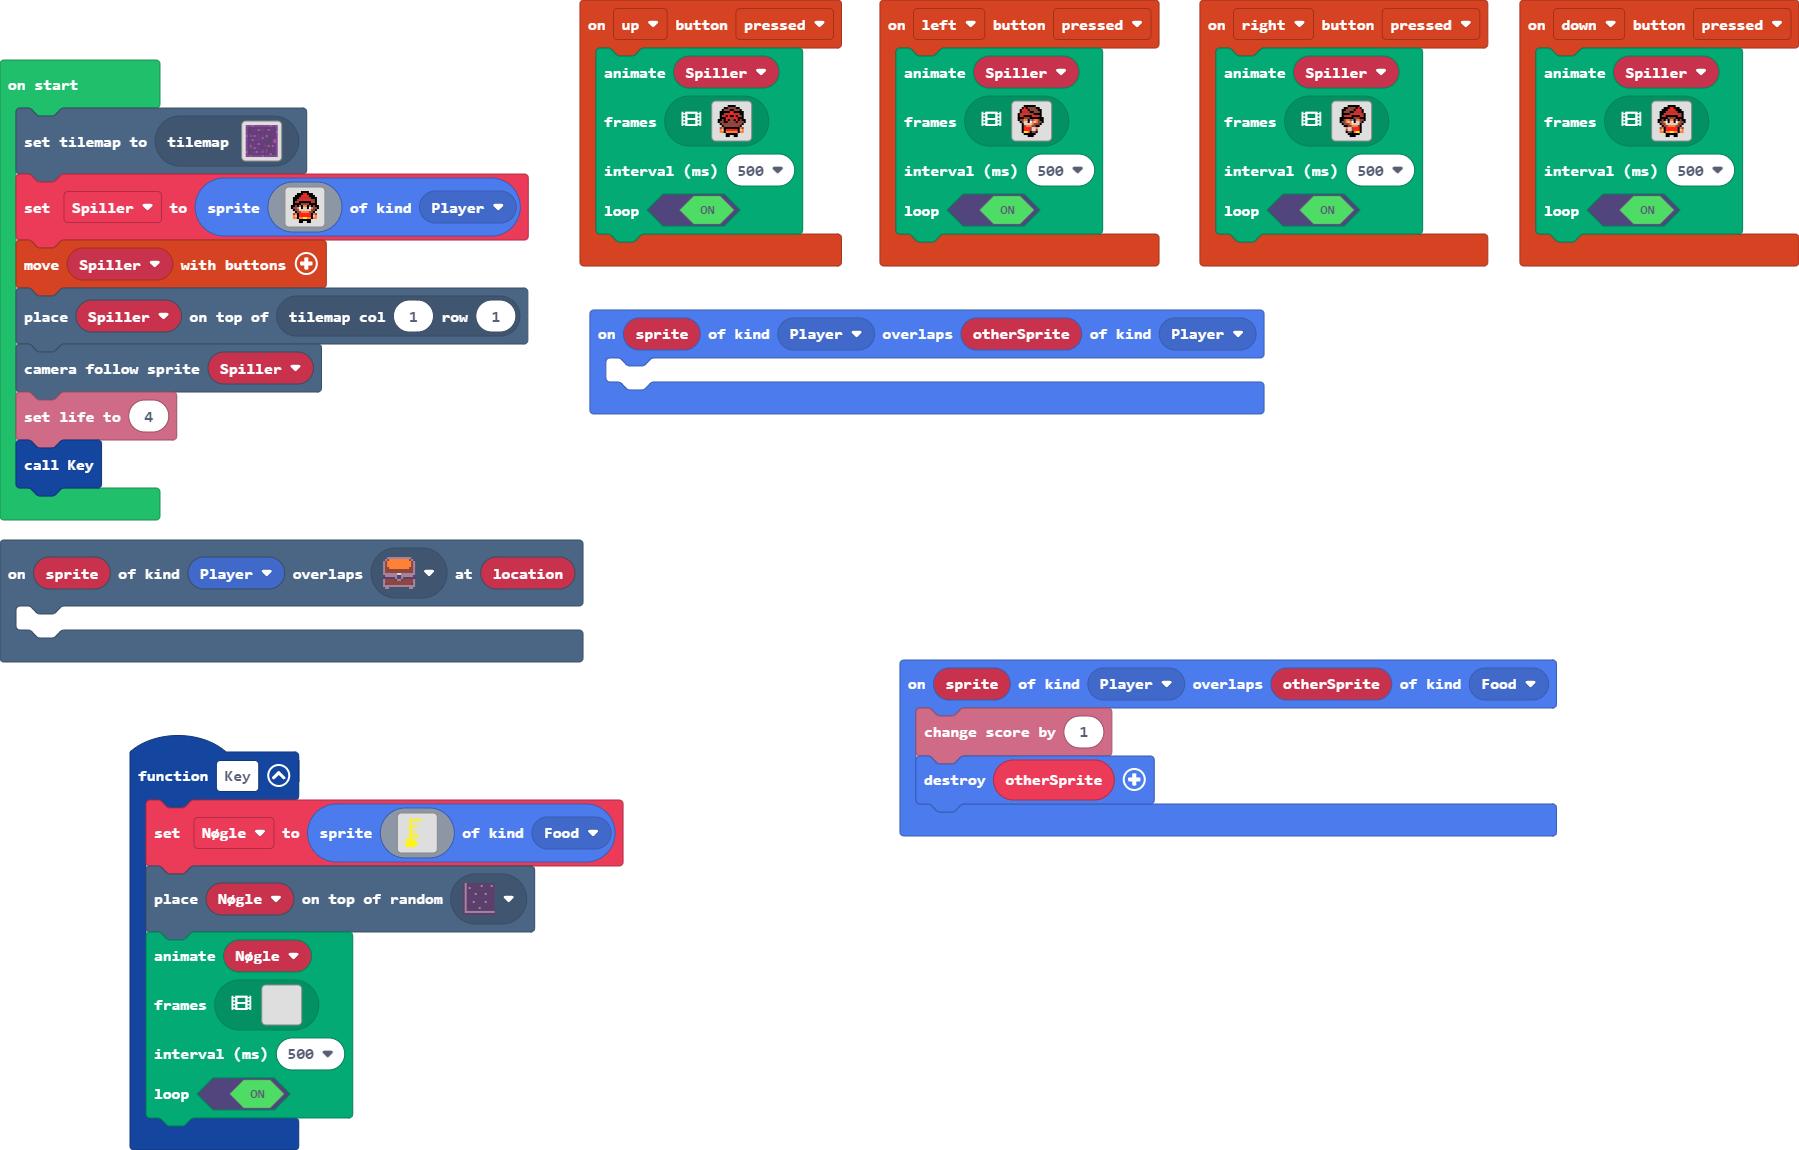
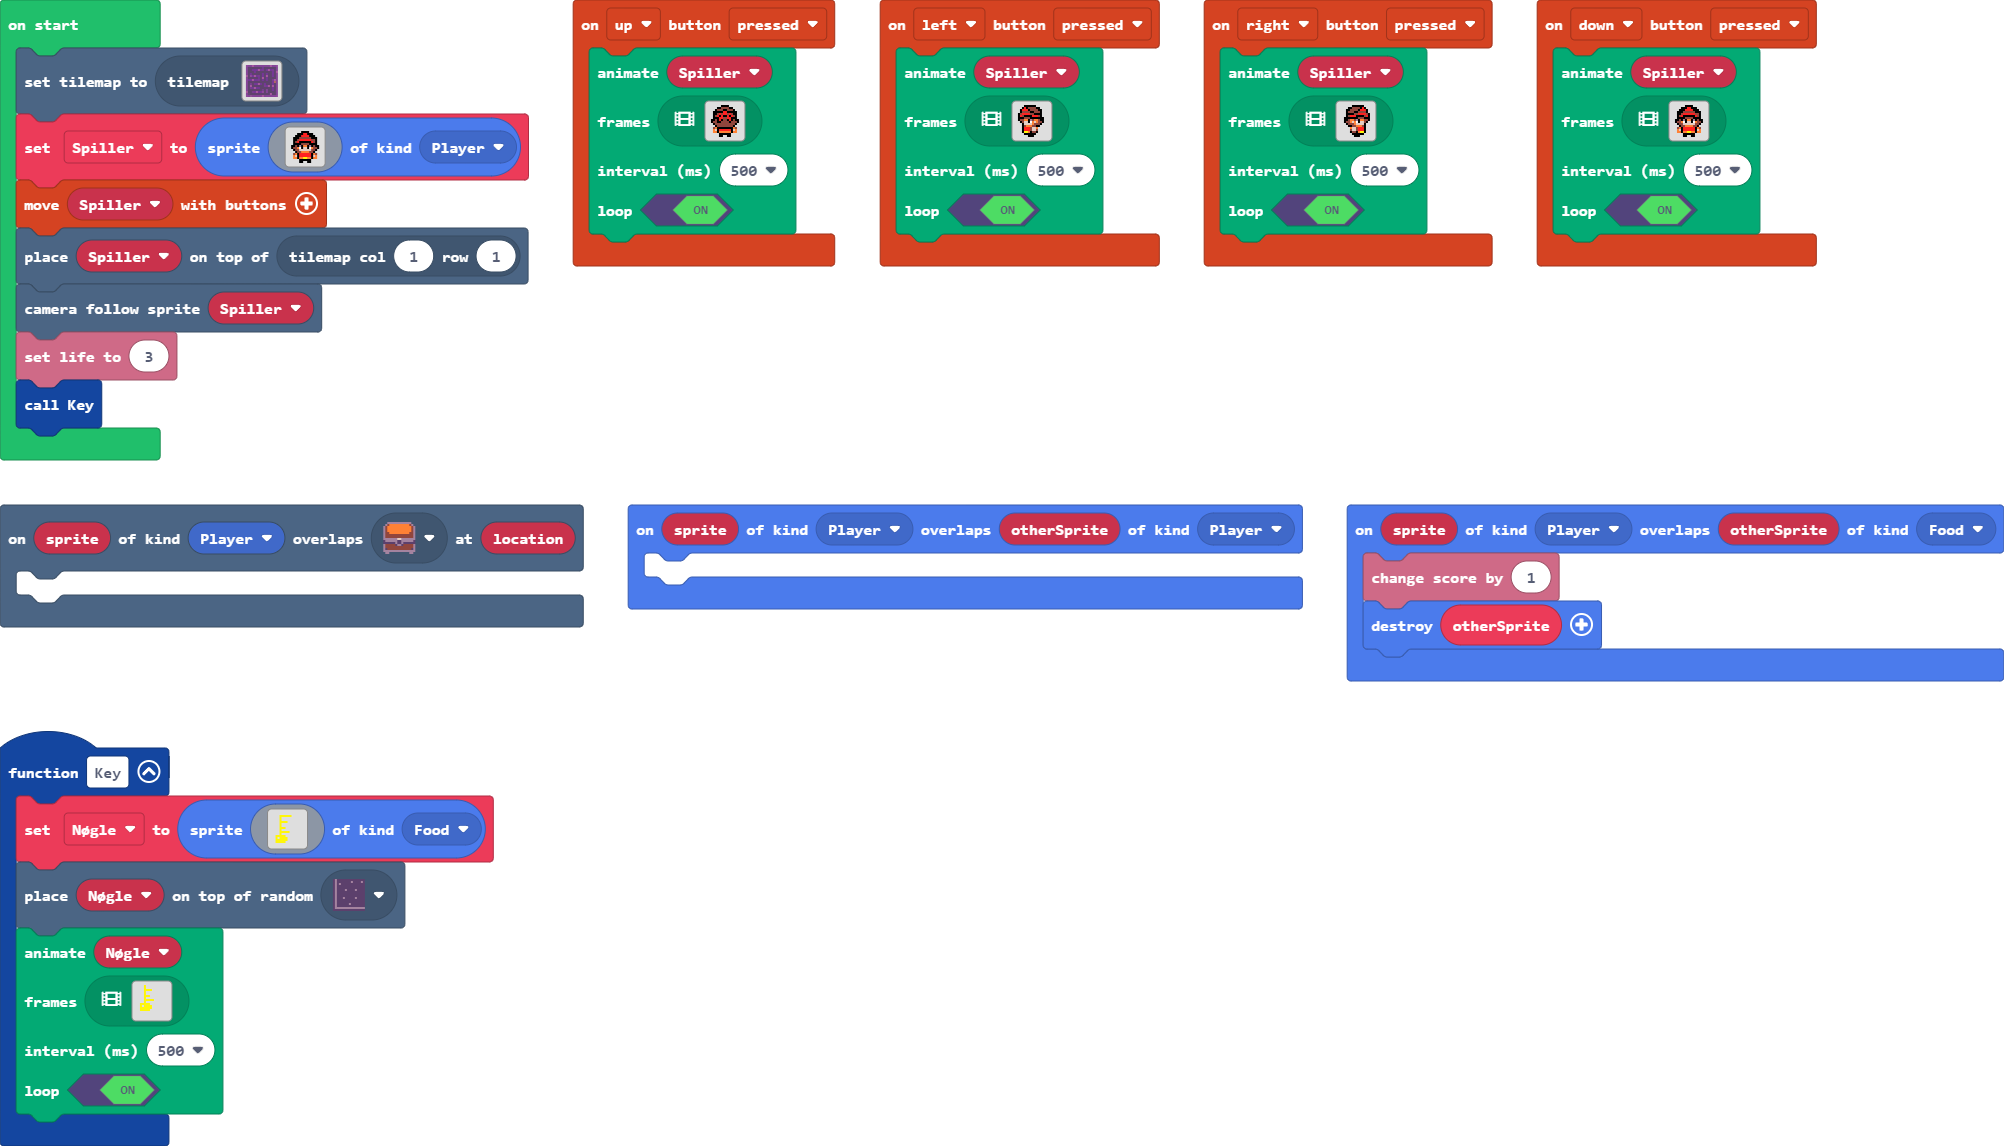
Update pxt.json, main.blocks, main.ts, images.g.jres, images.g.ts, main.py

diff --git a/images.g.ts b/images.g.ts
@@ -60,6 +60,25 @@ namespace myImages {
 . . 5 5 5 5 5 . . . . . . . . . 
 . . . . . . . . . . . . . . . . 
 `;
+            case "image3":
+            case "key0":return img`
+. . . . . . . . . . . . . . . . 
+. . . . 5 5 5 5 5 5 . . . . . . 
+. . . . 5 . . . . . . . . . . . 
+. . . . 5 . . . . . . . . . . . 
+. . . . 5 5 5 5 . . . . . . . . 
+. . . . 5 . . . . . . . . . . . 
+. . . . 5 . . . . . . . . . . . 
+. . . . 5 5 5 . . . . . . . . . 
+. . . . 5 . . . . . . . . . . . 
+. . . . 5 5 5 5 5 . . . . . . . 
+. . . . 5 . . . . . . . . . . . 
+. . 5 5 5 5 5 . . . . . . . . . 
+. . 5 . 5 5 5 5 . . . . . . . . 
+. . 5 5 5 5 5 5 . . . . . . . . 
+. . 5 5 5 5 5 . . . . . . . . . 
+. . . . . . . . . . . . . . . . 
+`;
         }
         return null;
     })
@@ -345,6 +364,76 @@ namespace myImages {
 . . . . e e f 5 5 4 4 f . . . . 
 . . . . . f f f f f f f . . . . 
 . . . . . . . . . f f f . . . . 
+`];
+            case "KEY":
+            case "anim5":return [img`
+. . . . 5 . . . . . . . . . . . 
+. . . . 5 . . . . . . . . . . . 
+. . . . 5 5 5 5 . . . . . . . . 
+. . . . 5 . . . . . . . . . . . 
+. . . . 5 . . . . . . . . . . . 
+. . . . 5 5 5 . . . . . . . . . 
+. . . . 5 . . . . . . . . . . . 
+. . . . 5 5 5 5 5 . . . . . . . 
+. . . . 5 . . . . . . . . . . . 
+. . 5 5 5 5 5 . . . . . . . . . 
+. . 5 . 5 5 5 5 . . . . . . . . 
+. . 5 5 5 5 5 5 . . . . . . . . 
+. . 5 5 5 5 5 . . . . . . . . . 
+. . . . . . . . . . . . . . . . 
+. . . . . . . . . . . . . . . . 
+. . . . . . . . . . . . . . . . 
+`, img`
+. . . . . . . . . . . . . . . . 
+. . . . . . . . 5 5 5 5 5 5 . . 
+. . . . . . . . 5 . . . . . . . 
+. . . . . . . . 5 . . . . . . . 
+. . . . . . . . 5 5 5 5 . . . . 
+. . . . . . . . 5 . . . . . . . 
+. . . . . . . . 5 . . . . . . . 
+. . . . . . . . 5 5 5 . . . . . 
+. . . . . . . . 5 . . . . . . . 
+. . . . . . . . 5 5 5 5 5 . . . 
+. . . . . . . . 5 . . . . . . . 
+. . . . . . 5 5 5 5 5 . . . . . 
+. . . . . . 5 . 5 5 5 5 . . . . 
+. . . . . . 5 5 5 5 5 5 . . . . 
+. . . . . . 5 5 5 5 5 . . . . . 
+. . . . . . . . . . . . . . . . 
+`, img`
+. . . . . . . . . . . . . . . . 
+. . . . . . . . . . . . . . . . 
+. . . . . . . . . . . . . . . . 
+. . . . 5 5 5 5 5 5 . . . . . . 
+. . . . 5 . . . . . . . . . . . 
+. . . . 5 . . . . . . . . . . . 
+. . . . 5 5 5 5 . . . . . . . . 
+. . . . 5 . . . . . . . . . . . 
+. . . . 5 . . . . . . . . . . . 
+. . . . 5 5 5 . . . . . . . . . 
+. . . . 5 . . . . . . . . . . . 
+. . . . 5 5 5 5 5 . . . . . . . 
+. . . . 5 . . . . . . . . . . . 
+. . 5 5 5 5 5 . . . . . . . . . 
+. . 5 . 5 5 5 5 . . . . . . . . 
+. . 5 5 5 5 5 5 . . . . . . . . 
+`, img`
+. . . . . . . . . . . . . . . . 
+. . 5 5 5 5 5 5 . . . . . . . . 
+. . 5 . . . . . . . . . . . . . 
+. . 5 . . . . . . . . . . . . . 
+. . 5 5 5 5 . . . . . . . . . . 
+. . 5 . . . . . . . . . . . . . 
+. . 5 . . . . . . . . . . . . . 
+. . 5 5 5 . . . . . . . . . . . 
+. . 5 . . . . . . . . . . . . . 
+. . 5 5 5 5 5 . . . . . . . . . 
+. . 5 . . . . . . . . . . . . . 
+5 5 5 5 5 . . . . . . . . . . . 
+5 . 5 5 5 5 . . . . . . . . . . 
+5 5 5 5 5 5 . . . . . . . . . . 
+5 5 5 5 5 . . . . . . . . . . . 
+. . . . . . . . . . . . . . . . 
 `];
         }
         return null;

diff --git a/main.ts b/main.ts
@@ -7,29 +7,12 @@ controller.up.onEvent(ControllerButtonEvent.Pressed, function () {
     )
 })
 function Key () {
-    Nøgle = sprites.create(assets.image`key`, SpriteKind.Food)
+    Nøgle = sprites.create(assets.image`nøglee`, SpriteKind.Food)
     tiles.placeOnRandomTile(Nøgle, sprites.dungeon.darkGroundSouthWest0)
     animation.runImageAnimation(
     Nøgle,
-    [img`
-        . . . . . . . . . . . . . . . . 
-        . . . . . . . . . . . . . . . . 
-        . . . . . . . . . . . . . . . . 
-        . . . . . . . . . . . . . . . . 
-        . . . . . . . . . . . . . . . . 
-        . . . . . . . . . . . . . . . . 
-        . . . . . . . . . . . . . . . . 
-        . . . . . . . . . . . . . . . . 
-        . . . . . . . . . . . . . . . . 
-        . . . . . . . . . . . . . . . . 
-        . . . . . . . . . . . . . . . . 
-        . . . . . . . . . . . . . . . . 
-        . . . . . . . . . . . . . . . . 
-        . . . . . . . . . . . . . . . . 
-        . . . . . . . . . . . . . . . . 
-        . . . . . . . . . . . . . . . . 
-        `],
-    500,
+    assets.animation`nøgleanimation`,
+    200,
     true
     )
 }
@@ -40,9 +23,6 @@ controller.left.onEvent(ControllerButtonEvent.Pressed, function () {
     500,
     true
     )
-})
-scene.onOverlapTile(SpriteKind.Player, sprites.dungeon.chestClosed, function (sprite, location) {
-	
 })
 controller.right.onEvent(ControllerButtonEvent.Pressed, function () {
     animation.runImageAnimation(
@@ -91,5 +71,5 @@ Spiller = sprites.create(img`
 controller.moveSprite(Spiller)
 tiles.placeOnTile(Spiller, tiles.getTileLocation(1, 1))
 scene.cameraFollowSprite(Spiller)
-info.setLife(4)
+info.setLife(3)
 Key()

diff --git a/main.py b/main.py
@@ -1,0 +1,96 @@
+def on_up_pressed():
+    animation.run_image_animation(Spiller, assets.animation("""
+        up
+    """), 500, True)
+controller.up.on_event(ControllerButtonEvent.PRESSED, on_up_pressed)
+
+def Key():
+    global Nøgle
+    Nøgle = sprites.create(assets.image("""
+        key
+    """), SpriteKind.food)
+    tiles.place_on_random_tile(Nøgle, sprites.dungeon.dark_ground_south_west0)
+    animation.run_image_animation(Nøgle,
+        [img("""
+            . . . . . . . . . . . . . . . . 
+                    . . . . . . . . . . . . . . . . 
+                    . . . . . . . . . . . . . . . . 
+                    . . . . . . . . . . . . . . . . 
+                    . . . . . . . . . . . . . . . . 
+                    . . . . . . . . . . . . . . . . 
+                    . . . . . . . . . . . . . . . . 
+                    . . . . . . . . . . . . . . . . 
+                    . . . . . . . . . . . . . . . . 
+                    . . . . . . . . . . . . . . . . 
+                    . . . . . . . . . . . . . . . . 
+                    . . . . . . . . . . . . . . . . 
+                    . . . . . . . . . . . . . . . . 
+                    . . . . . . . . . . . . . . . . 
+                    . . . . . . . . . . . . . . . . 
+                    . . . . . . . . . . . . . . . .
+        """)],
+        500,
+        True)
+
+def on_left_pressed():
+    animation.run_image_animation(Spiller, assets.animation("""
+        left
+    """), 500, True)
+controller.left.on_event(ControllerButtonEvent.PRESSED, on_left_pressed)
+
+def on_overlap_tile(sprite, location):
+    pass
+scene.on_overlap_tile(SpriteKind.player,
+    sprites.dungeon.chest_closed,
+    on_overlap_tile)
+
+def on_right_pressed():
+    animation.run_image_animation(Spiller, assets.animation("""
+        right
+    """), 500, True)
+controller.right.on_event(ControllerButtonEvent.PRESSED, on_right_pressed)
+
+def on_down_pressed():
+    animation.run_image_animation(Spiller, assets.animation("""
+        down
+    """), 500, True)
+controller.down.on_event(ControllerButtonEvent.PRESSED, on_down_pressed)
+
+def on_on_overlap(sprite2, otherSprite):
+    pass
+sprites.on_overlap(SpriteKind.player, SpriteKind.player, on_on_overlap)
+
+def on_on_overlap2(sprite3, otherSprite2):
+    info.change_score_by(1)
+    sprites.destroy(otherSprite2)
+sprites.on_overlap(SpriteKind.player, SpriteKind.food, on_on_overlap2)
+
+Nøgle: Sprite = None
+Spiller: Sprite = None
+tiles.set_current_tilemap(tilemap("""
+    level0
+"""))
+Spiller = sprites.create(img("""
+        . . . . . . f f f f . . . . . . 
+            . . . . f f f 2 2 f f f . . . . 
+            . . . f f f 2 2 2 2 f f f . . . 
+            . . f f f e e e e e e f f f . . 
+            . . f f e 2 2 2 2 2 2 e e f . . 
+            . . f e 2 f f f f f f 2 e f . . 
+            . . f f f f e e e e f f f f . . 
+            . f f e f b f 4 4 f b f e f f . 
+            . f e e 4 1 f d d f 1 4 e e f . 
+            . . f e e d d d d d d e e f . . 
+            . . . f e e 4 4 4 4 e e f . . . 
+            . . e 4 f 2 2 2 2 2 2 f 4 e . . 
+            . . 4 d f 2 2 2 2 2 2 f d 4 . . 
+            . . 4 4 f 4 4 5 5 4 4 f 4 4 . . 
+            . . . . . f f f f f f . . . . . 
+            . . . . . f f . . f f . . . . .
+    """),
+    SpriteKind.player)
+controller.move_sprite(Spiller)
+tiles.place_on_tile(Spiller, tiles.get_tile_location(1, 1))
+scene.camera_follow_sprite(Spiller)
+info.set_life(4)
+Key()
